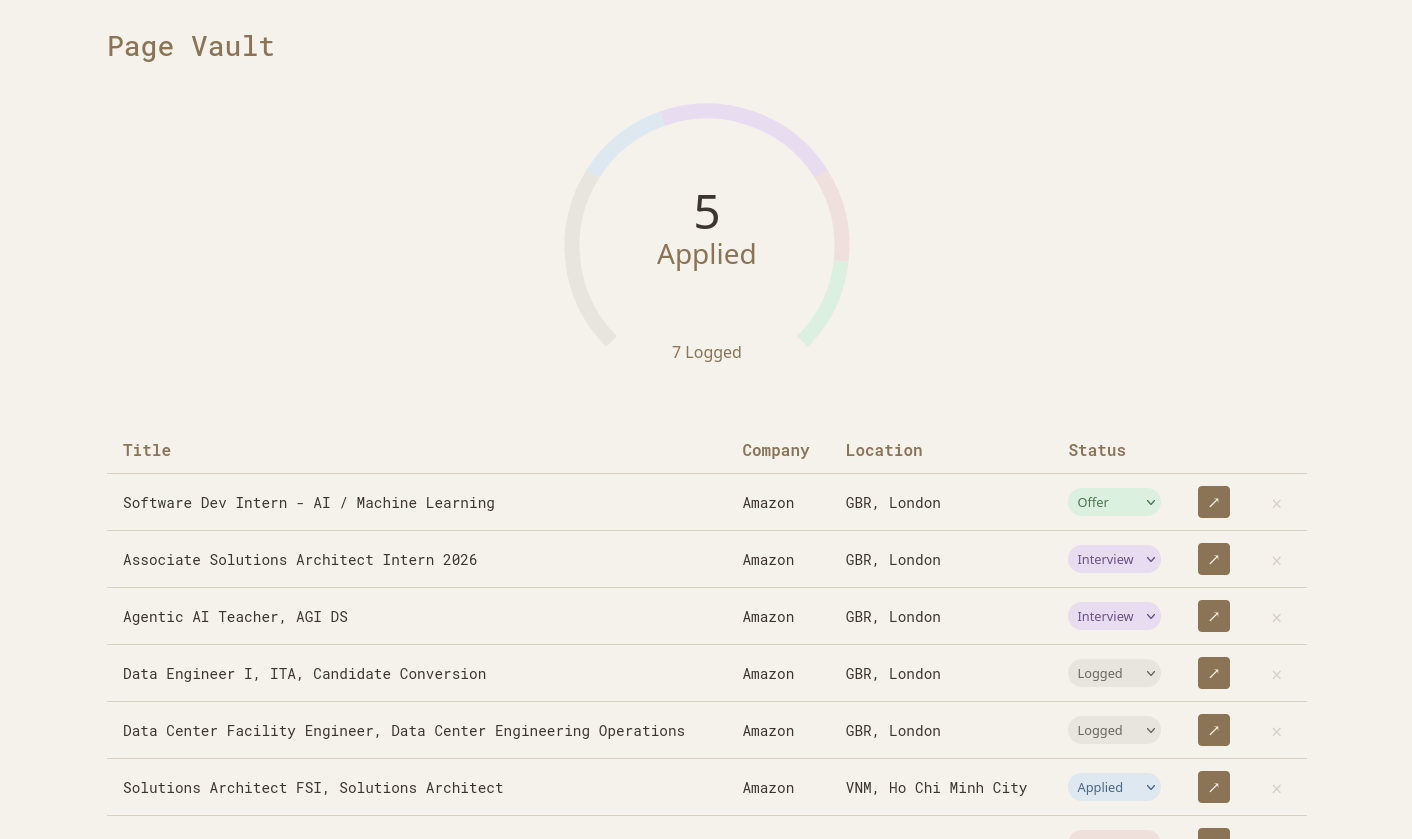
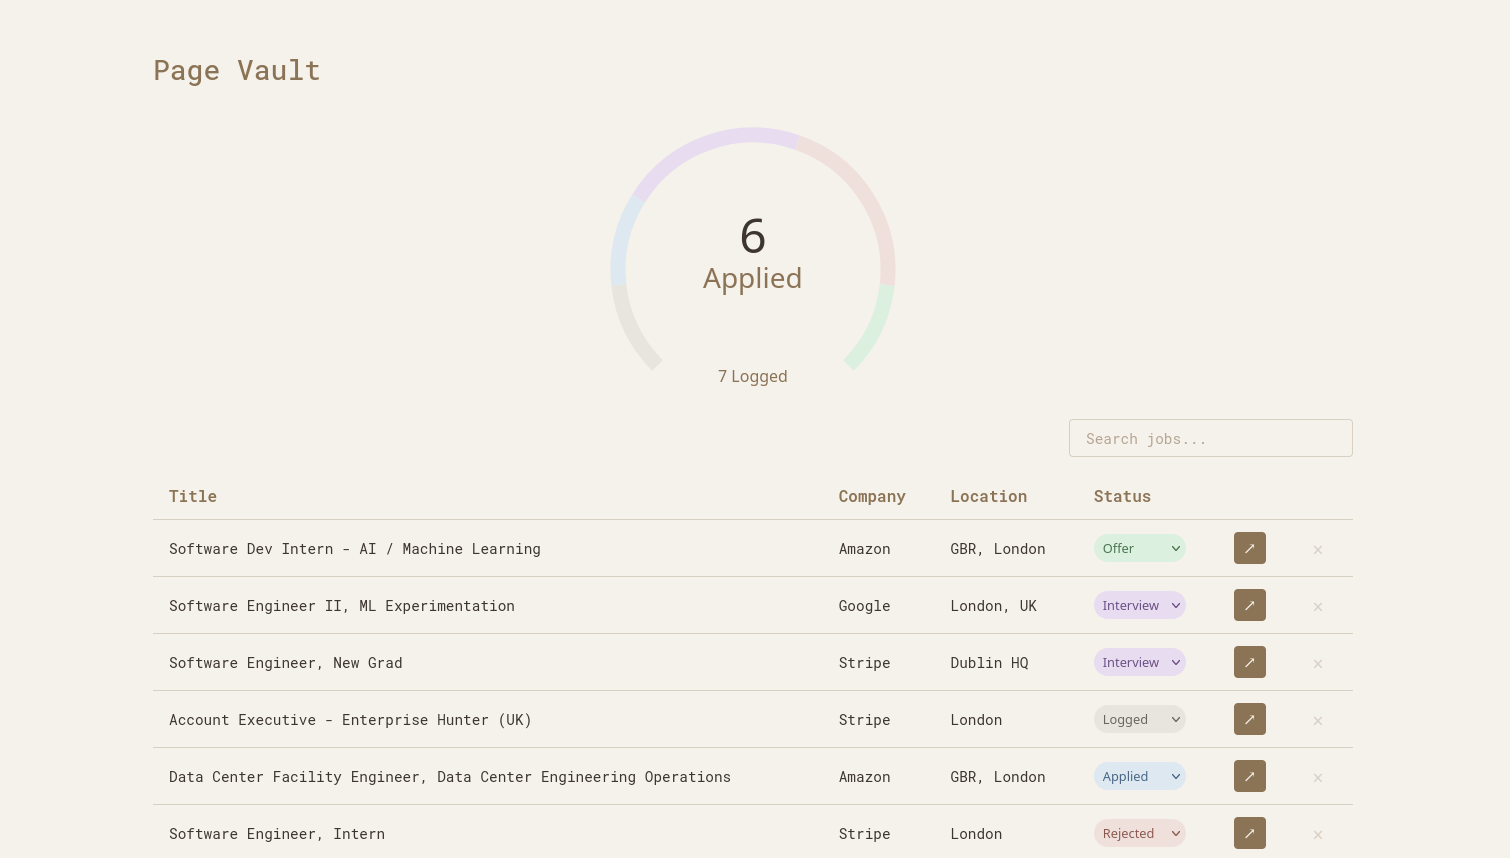
Added support for Google, Stripe. Added search and sort

diff --git a/frontend/src/App.tsx b/frontend/src/App.tsx
@@ -14,7 +14,26 @@ import { useState, useEffect } from "react"
 
 export function JobListTable() {
   const [jobs, setJobs] = useState<Job[]>([])
+  const [search, setSearch] = useState("")
+  const [sortColumn, setSortColumn] = useState<string | null>(null)
+  const [sortDirection, setSortDirection] = useState<'asc' | 'desc' | null>(null)
 
+  const filteredJobs = jobs.filter(job => 
+    job.title.toLowerCase().includes(search.toLowerCase()) ||
+    job.company.toLowerCase().includes(search.toLowerCase())
+  )
+
+  const handleSort = (column: string) => {
+    if (sortColumn !== column) {
+      setSortColumn(column)
+      setSortDirection('asc')
+    } else if (sortDirection === 'asc') {
+      setSortDirection('desc')
+    } else {
+      setSortColumn(null)
+      setSortDirection(null)
+    }
+  }
   const fetchJobs = () => {
 
     fetch("http://localhost:8000/jobs")
@@ -24,8 +43,18 @@ export function JobListTable() {
   
   const LIST_ORDER = ["Offer", "Interview", "Logged", "Applied", "Rejected"]
 
-  const sortedJobs = [...jobs].sort((a, b) => {
-    return LIST_ORDER.indexOf(a.status) - LIST_ORDER.indexOf(b.status)
+  const sortedJobs = [...filteredJobs].sort((a, b) => {
+    // Default sort by status if no column selected
+    if (!sortColumn || !sortDirection) {
+      return LIST_ORDER.indexOf(a.status) - LIST_ORDER.indexOf(b.status)
+    }
+    
+    const aVal = a[sortColumn as keyof Job]
+    const bVal = b[sortColumn as keyof Job]
+    
+    if (aVal < bVal) return sortDirection === 'asc' ? -1 : 1
+    if (aVal > bVal) return sortDirection === 'asc' ? 1 : -1
+    return 0
   })
 
   const deleteJob = (id: number) => {
@@ -47,13 +76,42 @@ export function JobListTable() {
   return (
   <>
     <StatusDial jobs={jobs} />
+    <div style={{ display: 'flex', justifyContent: 'flex-end', marginBottom: '-1rem' }}>
+      <input
+        type="text"
+        className="search-input"
+        placeholder="Search jobs..."
+        value={search}
+        onChange={(e) => setSearch(e.target.value)}
+      />
+    </div>
     <Table className="table">
       <TableHeader>
         <TableRow>
-          <TableHead>Title</TableHead>
-          <TableHead>Company</TableHead>
-          <TableHead>Location</TableHead>
-          <TableHead>Status</TableHead>
+            <TableHead 
+              onClick={() => handleSort('title')} 
+              style={{ cursor: 'pointer' }}
+            >
+              Title {sortColumn === 'title' && (sortDirection === 'asc' ? '↑' : '↓')}
+            </TableHead>
+            <TableHead 
+              onClick={() => handleSort('company')} 
+              style={{ cursor: 'pointer' }}
+            >
+              Company {sortColumn === 'company' && (sortDirection === 'asc' ? '↑' : '↓')}
+            </TableHead>
+            <TableHead 
+              onClick={() => handleSort('location')} 
+              style={{ cursor: 'pointer' }}
+            >
+              Location {sortColumn === 'location' && (sortDirection === 'asc' ? '↑' : '↓')}
+            </TableHead>
+            <TableHead 
+              onClick={() => handleSort('status')} 
+              style={{ cursor: 'pointer' }}
+            >
+              Status {sortColumn === 'status' && (sortDirection === 'asc' ? '↑' : '↓')}
+            </TableHead>
           <TableHead></TableHead>
           <TableHead></TableHead>
         </TableRow>

diff --git a/frontend/src/index.css b/frontend/src/index.css
@@ -142,3 +142,24 @@ table a.link-button {
   font-family: system-ui, sans-serif;
   margin-top: -3.5rem;
 }
+
+.search-input {
+  padding: 0.5rem 1rem;
+  border: 1px solid var(--border);
+  border-radius: var(--radius);
+  background: var(--background);
+  color: var(--foreground);
+  font-family: inherit;
+  font-size: 0.9rem;
+  width: 250px;
+}
+
+.search-input:focus {
+  outline: none;
+  border-color: var(--primary);
+}
+
+.search-input::placeholder {
+  color: var(--primary);
+  opacity: 0.6;
+}

diff --git a/backend/src/parsing.py b/backend/src/parsing.py
@@ -9,36 +9,6 @@ DBConnection = sqlite3.Connection
 Page = sqlite3.Row 
 
 
-def get_clean_soup(page: Page):
-    soup = BeautifulSoup(page["html"], 'html.parser')
-
-    head = soup.find("head")
-    if head:
-        head.decompose()
-
-    first_header = soup.find("header")
-    if first_header:
-        first_header.decompose()
-
-    non_content_tags = ["script", "style", "iframe", "footer", "nav", "noscript", "link", "meta", "path", "svg", "br", "img", "option", "button", "select", "input", "form", "pre"]
-
-    for tag_name in non_content_tags:
-        for tag in soup.find_all(tag_name):
-            tag.decompose()
-
-    for comment in soup.find_all(string=lambda text: isinstance(text, Comment)):
-        comment.extract()
-
-    footer = soup.find("footer")
-    if footer:
-        footer.decompose()
-
-    footer = soup.select(".footer")
-    for tag in footer:
-        tag.decompose()
-
-    return soup
-
 def get_page_url(page: Page) -> str:
     return str(page["url"])
 
@@ -67,20 +37,20 @@ def get_company_id_from_name(conn: DBConnection, name: str) -> int | None:
     else:
         return None
 
-def get_job_title(soup: BeautifulSoup) -> str | None:
-    title = soup.select_one(".title")
+def get_job_title(soup: BeautifulSoup, selector: str) -> str | None:
+    title = soup.select_one(selector)
     if title:
         return title.text
 
 
-def get_job_location(soup: BeautifulSoup) -> str | None:
-    location = soup.select_one("ul.association-content li")
+def get_job_location(soup: BeautifulSoup, selector: str) -> str | None:
+    location = soup.select_one(selector)
     if location:
         return location.text
 
 
-def get_job_content(soup: BeautifulSoup) -> str | None:
-    content = soup.select_one("div.container > div > div > div.content")
+def get_job_content(soup: BeautifulSoup, selector: str) -> str | None:
+    content = soup.select_one(selector)
     if content:
         return content.text
 
@@ -122,30 +92,53 @@ def insert_parsed(conn: DBConnection, html: str) -> int:
     else:
         raise Exception("Couldn't insert new parse")
 
+def get_selectors_from_html(html: Page) -> list[str]:
+    return ["ul.association-content li",".title","div.container > div > div > div.content"] 
+
+def get_selectors_from_db(conn: DBConnection, company_id: int) -> list[str]:
+    cur = conn.cursor()
+    cur.execute("SELECT header_selector, location_selector, content_selector FROM company WHERE id = ?", (company_id,))
+    row = cur.fetchone()
+    return [row["header_selector"], row["location_selector"], row["content_selector"]]
+
+
 def parse_page(page: Page):
     conn = get_db()
     if page:
-        soup = get_clean_soup(page)
+        soup = BeautifulSoup(page["html"], 'html.parser')
         url = get_page_url(page)
 
     else:
         raise Exception("Failed to get Page")
 
-    title = get_job_title(soup)
-    company_id = get_company_id_from_url(conn, url)
-    location = get_job_location(soup)
-    content = get_job_content(soup)
-    if content:
-        (descr, reqs, preferred_reqs) = parse_content(content)
 
-    else:
-        raise Exception("Bad request 1")
- 
+    company_id = get_company_id_from_url(conn, url)
 
     if company_id is None:
         name = get_company_name_from_url(url)
-        selectors = ["ul.association-content li",".title","div.container > div > div > div.content"]
+        selectors = get_selectors_from_html(page)
         company_id = trigger_company_creation(conn, name, selectors)
+        title = get_job_title(soup, selectors[0])
+        location = get_job_location(soup, selectors[1])
+        content = get_job_content(soup, selectors[2])
+        if content:
+            (descr, reqs, preferred_reqs) = parse_content(content)
+
+        else:
+            raise Exception("Bad request 1")
+    
+
+    else:
+        title_selector, location_selector, content_selector = get_selectors_from_db(conn, company_id)
+        title = get_job_title(soup, title_selector)
+        location = get_job_location(soup, location_selector)
+        content = get_job_content(soup, content_selector)
+        if content:
+            (descr, reqs, preferred_reqs) = parse_content(content)
+
+        else:
+            raise Exception("Bad request 2")
+    
 
     if (title is not None and
         location is not None):
